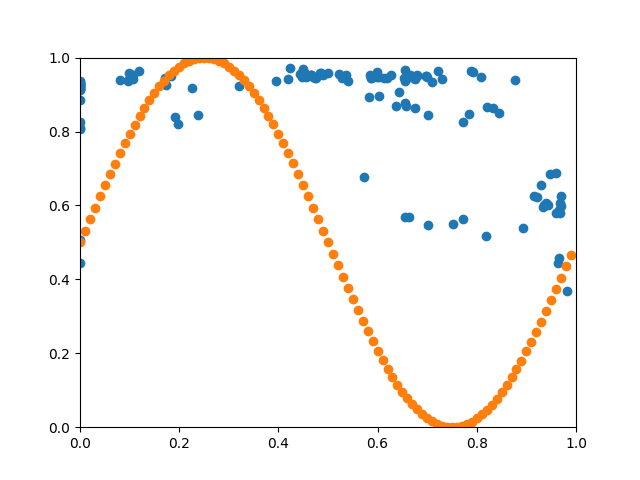
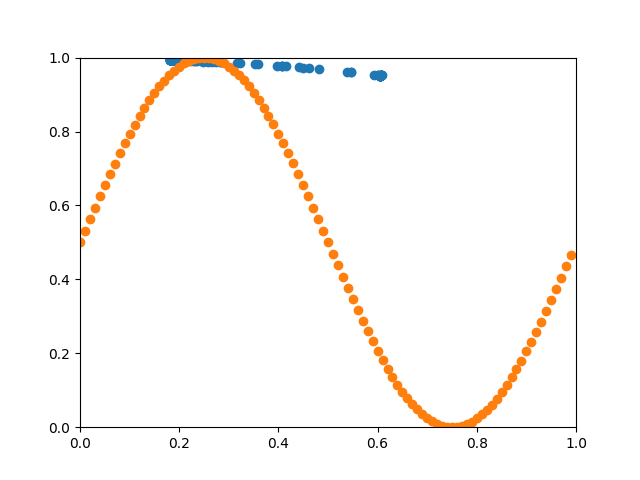
it learnt a little bit i guess

diff --git a/examples/5_sin_gan/plot.py b/examples/5_sin_gan/plot.py
@@ -1,8 +1,8 @@
 import matplotlib.pyplot as plt
 import numpy as np
 
-x = [0.42328608931218553,0.9675189609930194,0.00002850598007414788,0.4767427220792397,0.752579638007378,0.4856637706381389,0.7013294277309744,0.6368277633508238,0.000009764237938055958,0.00010904903572057491,0.7850730570378329,0.45654710998307285,0.9696238353893942,0.48389477271088005,0.0981220330303139,0.5356925988537528,0.44764895614503386,0.6658467588452129,0.00005191735319158547,0.4692368220231053,0.44443326692242746,0.7715107576926091,0.00006040598463005416,0.679866821030024,0.6692747304370015,0.4652860252656516,0.676014534191465,0.7089744704980061,0.00010019894493206285,0.6134891019234625,0.9350262227876132,0.3959855909130889,0.10666406710054492,0.679431020127906,0.44940249355557,0.5867651897655283,0.6579009847908819,0.9484475858714411,0.000007742493077051928,0.44743053645266634,0.23725458248344364,0.7917222621150338,0.6553720745884786,0.8770400595144471,0.00006054253626989927,0.6753627580913427,0.598740352978609,0.6021995295792704,0.6627375867264389,0.08069995644648655,0.000013992532682966871,0.000030435702720867755,0.9590342613879111,0.9655510228259121,0.4605792017638404,0.9823297124904642,0.914525556614222,0.4557441186624205,0.00009075471310126943,0.4742579106799024,0.31961050872370644,0.9300010651155052,0.00009210760760047795,0.9430874306929438,0.5288937556872056,0.17176275761769144,0.6026173354679797,0.4993267021032303,0.6555329345725714,0.0008332336537589548,0.521421711276306,0.8195640270890416,0.6973554005899966,0.6198327040240066,0.182734731956204,0.19239913925605887,0.8177735052750738,0.0000593672612809419,0.8922936475612194,0.4192695444512079,0.118180301152866,0.00007360072181201158,0.5831608275060377,0.9666237764110948,0.0975067101304106,0.9221944899620412,0.5724553061591909,0.00000533914743221441,0.6980802176588555,0.8452422840063001,0.6440271478633681,0.5990849055393211,0.4664171482902408,0.6725462501957988,0.963955071993691,0.9397860968390459,0.17389418774445492,0.7874877192090806,0.4497282359882124,0.6571173128241564,0.5393219202386415,0.22630833349872662,0.00013762528129471365,0.9593709762162238,0.969303604824005,0.00005463137031536508,0.6555267999070796,0.6524693354056791,0.9329538607326473,0.9669108969255779,0.000009855151426883719,0.7004965282476185,0.8094671501738759,0.8320467189658715,0.5860632039363075,0.7216395278131872,0.584793372916338,0.000020635050665267044,0.6262646171268663,0.10655703839314015,0.1980558000584781,0.7011053023244056,0.09946499775781534,0.7289427183376935,0.465893596817794,0.7719093786002162,0.4891698430731353,0.6559371111538885]
-y = [0.97114503084778,0.6061875173660656,0.9283713371639893,0.9453121557919011,0.5496174512283944,0.9575193235434811,0.8434665636478555,0.8683187915626861,0.8079741231755737,0.9355095157732033,0.8462241302301914,0.9554324747107062,0.6250622397449282,0.9572537859759036,0.9583185065160724,0.9527626330052746,0.9608453500076144,0.9534638990592784,0.9128583945828527,0.9470307007265202,0.956835011259783,0.8245586593842468,0.916298328712689,0.9520699255797263,0.9491589900571547,0.9522969994654298,0.8629464114663202,0.9343593181805531,0.44432794402126013,0.9455534996388505,0.6016166935552628,0.9362152260735791,0.9410283280207546,0.9489811419615016,0.96917152525849,0.9452760719160933,0.8695783637889296,0.6861646115116832,0.9235705349507928,0.9464601347264477,0.8457277081236098,0.9610552723243242,0.8770423548117764,0.9388766808229083,0.9312674372300372,0.9432582524790697,0.9602812184179432,0.9464325662319433,0.5680116140081048,0.938159061143443,0.8270477811307339,0.9279842151549682,0.6876131838585374,0.5873141380996336,0.9507291547170338,0.3694548004890694,0.6267699750441563,0.948291767238594,0.9167773939754064,0.9435136851303897,0.9223642546473834,0.6556618881156873,0.9167368939539625,0.600895046722103,0.9452462495128847,0.9455641798500231,0.8950778110799152,0.9574389904729658,0.966346417499719,0.5052374102198609,0.9552463458008695,0.866893641395027,0.9500240877302157,0.9437348156879022,0.9506247047096946,0.8399044059682343,0.5178008710119978,0.9243256454173266,0.5382210964394871,0.9425869269632652,0.9636574772704198,0.9248926995755345,0.8944356818950837,0.4565281480354057,0.9360310682501045,0.623779953012323,0.6760315688413312,0.885971701001209,0.9491745816885273,0.8500025416770967,0.9082584534251974,0.9484131105983091,0.9527949760313208,0.9454472096670961,0.4455946115562104,0.6054499925403164,0.9258748549525158,0.9625941804911862,0.9541037898927678,0.9422270642437186,0.9356142236488588,0.9168275126171641,0.921538610937408,0.5784322554445318,0.5991503945741984,0.80973120453928,0.5682096463546944,0.9448697253376926,0.5960023993900567,0.5795466306465556,0.9160560695226299,0.9470001711384035,0.9469361513972019,0.8630158165039157,0.9443607447607665,0.9647321745643095,0.9523433887684196,0.9340947671224799,0.9525783970778278,0.9518765141823907,0.8200657627788915,0.5459146458991959,0.942315915729752,0.9411745523943384,0.9531409451696166,0.5637587144451937,0.9519917750714649,0.9359230203520219]
+x = [0.2830990107968717,0.18712330020838921,0.19766367944732707,0.184767616395176,0.3163095149102575,0.18209175694293026,0.1933324634663471,0.20155093417162123,0.1833131769162172,0.6048397645139354,0.6049392678905482,0.6044548828924872,0.18769592757029951,0.6052255527214692,0.18253474142066098,0.3585090725803648,0.19551454498316492,0.6067364463176503,0.22340347292457235,0.23163142903036837,0.6048589437941047,0.6047220467396067,0.1851445325539417,0.21594255076768548,0.18910921078600929,0.4823956660585575,0.20901126633834713,0.19196060050470676,0.1875989416512283,0.6049735567432446,0.18788356064080347,0.6079644350200608,0.5378200919575891,0.18267182022140763,0.1821931217820301,0.4496755506802227,0.6050379242332065,0.182389618669936,0.1830517062471241,0.1826684646906655,0.6056868102225327,0.18208544954665115,0.4157413166678192,0.23501135998137673,0.6045511389376624,0.18233146449183565,0.19748185154181114,0.593742681440408,0.3967431933186436,0.19511095239389628,0.6061454371049605,0.3227258414370522,0.40644127875516745,0.6008786812239384,0.60450986206823,0.18230645278969707,0.6058907373448703,0.18885539855139644,0.2155114719809679,0.1827519677044367,0.1839600608158818,0.18248155462276724,0.19133225515512128,0.18300988145258193,0.18666001756030182,0.1825145761731683,0.6052557194781922,0.5459040644517933,0.20085738940731007,0.18278171568279808,0.18281343820638235,0.20871702579206344,0.18280741115051233,0.1939068297519674,0.6066429092467633,0.5468069780694541,0.1881770308413486,0.18276191567782368,0.19373690270225902,0.18270176790241396,0.6048620538803251,0.18707215260932417,0.1874802544122264,0.21095699436738416,0.2129272219736743,0.44203978512862496,0.4075558498035401,0.18534449988562282,0.20467026075823372,0.6049348439949088,0.6045787792809593,0.25718484936986613,0.6050367271620085,0.35190132977809657,0.6049096253300892,0.2159987710126945,0.6046515135216988,0.19009605365870227,0.18667748368401293,0.4615088214158421,0.28428781651948326,0.18117674967306518,0.1869720118645778,0.6063606194198549,0.27453053615881245,0.18302941811129242,0.2296058338197721,0.19281442754331746,0.21016856042084248,0.6045097819015475,0.21014265741207858,0.18128829058862472,0.2110069484755518,0.18576438889571736,0.2658128770459935,0.1854153126865199,0.6067474642882449,0.6003645297699568,0.19549602255111292,0.24875890111823054,0.20192493609580797,0.40824406080428516,0.18196807175702281,0.18311105096103375,0.18669768351522817,0.19832686025860383,0.6045664598958169,0.18275886696954663]
+y = [0.9871013440390162,0.9926590784641172,0.9918253197452367,0.9927571004314442,0.9846802530922595,0.9928434055815119,0.9920901976874549,0.9916588696819743,0.992585388225452,0.9511567599363465,0.9512261000412691,0.9508616142290556,0.9926747764217515,0.9514543036054671,0.9929066151329659,0.9816225675515697,0.9919529217940063,0.9525345817941973,0.9904715711279752,0.9899787835561236,0.951164760476135,0.9510559270364769,0.9929410595136018,0.9908469993885445,0.9923915463107207,0.9696001644280436,0.9912349230395489,0.9921966789937426,0.9925713960578814,0.9512754538005443,0.9922865273963802,0.9533643085036347,0.9622100296818971,0.9929197920566187,0.9927978685434204,0.9731676392845027,0.9513189821890647,0.9928724872689245,0.9927042388373211,0.9929486036998382,0.951755007068597,0.9927680350637437,0.9765684962496558,0.989878009833134,0.9509484781312906,0.9927299760585312,0.9919013238596114,0.9529185591252116,0.9782918655115105,0.9919616026775165,0.9520859771241237,0.9842187150901286,0.9774574890665804,0.9516111072203443,0.9508961877254198,0.9928495076246897,0.9519012627880683,0.992437051352847,0.9908745662374066,0.9929573197610002,0.9926427562006396,0.992640200123221,0.9922315585894638,0.9929801882909528,0.992628868045533,0.9928684736607951,0.9514440172408055,0.9610904198257375,0.9917456957815612,0.9929052563337823,0.9928066402035084,0.9912558391970964,0.9929676470715788,0.9921075726957437,0.9524681502571417,0.9611243973593443,0.9923166187801067,0.992968643340799,0.9920834700278583,0.992944287779072,0.9512301945458204,0.992636019773649,0.9926583281319212,0.9912489792613787,0.991083305520223,0.9739756925871565,0.9773239214560229,0.992454014196412,0.9914621170886782,0.9511986648849281,0.9509733093354131,0.9885561237770374,0.9513184547908207,0.9821104433800117,0.9512025394495998,0.9909025443251323,0.951015916336893,0.992431505777448,0.9926904655101612,0.9719102706541903,0.986916239456303,0.9926736301136105,0.992401351288933,0.9521972009146227,0.9875436962705655,0.9928111865492025,0.9901647485831704,0.99214842793961,0.9911528292825019,0.95091090600486,0.991187289486344,0.9926589859039595,0.9911299079583631,0.9926087683245636,0.9881408524390615,0.9927170182216083,0.9525119067648985,0.9516445448327443,0.9920425985623571,0.9889952441938468,0.9918329595316826,0.9773531835421535,0.9928317576900422,0.9929477039454516,0.9926261313311108,0.9918570576395989,0.9509625606597606,0.9929061257394336]
 
 
 x1 = np.arange(0, 1, 0.01)

diff --git a/examples/5_sin_gan/model.go b/examples/5_sin_gan/model.go
@@ -41,6 +41,9 @@ func attachGenerator(model *K.Model, input *G.Node) *G.Node {
 	output := K.Dense(model, n(), 25).MustAttach(input)
 	output = K.Sigmoid(model, n()).MustAttach(output)
 	output = K.Dropout(model, n(), 0.2).MustAttach(output)
+	output = K.Dense(model, n(), 25).MustAttach(output)
+	output = K.Sigmoid(model, n()).MustAttach(output)
+	output = K.Dropout(model, n(), 0.2).MustAttach(output)
 	output = K.Dense(model, n(), 2).MustAttach(output)
 	output = K.Sigmoid(model, n()).MustAttach(output)
 	return output
@@ -49,6 +52,9 @@ func attachGenerator(model *K.Model, input *G.Node) *G.Node {
 func attachDiscriminator(model *K.Model, input *G.Node, isTrainable bool) *G.Node {
 	n := K.NewNamer("discriminator")
 	output := K.Dense(model, n(), 25).MustAttach(input)
+	output = K.Sigmoid(model, n()).MustAttach(output)
+	output = K.Dropout(model, n(), 0.2).MustAttach(output)
+	output = K.Dense(model, n(), 25).MustAttach(output)
 	output = K.Sigmoid(model, n()).MustAttach(output)
 	output = K.Dropout(model, n(), 0.2).MustAttach(output)
 	output = K.Dense(model, n(), 1).MustAttach(output)

diff --git a/examples/5_sin_gan/main.go b/examples/5_sin_gan/main.go
@@ -27,7 +27,7 @@ func main() {
 	solverD := G.NewAdamSolver(G.WithLearnRate(0.001))
 
 	// Train for 1000 steps (1000 batches)
-	steps := 1000000
+	steps := 100000
 	for i := 0; i < steps; i++ {
 		gl, dl := trainingStep(full, gen, disc, solverG, solverD)
 		if i%1000 == 0 {
